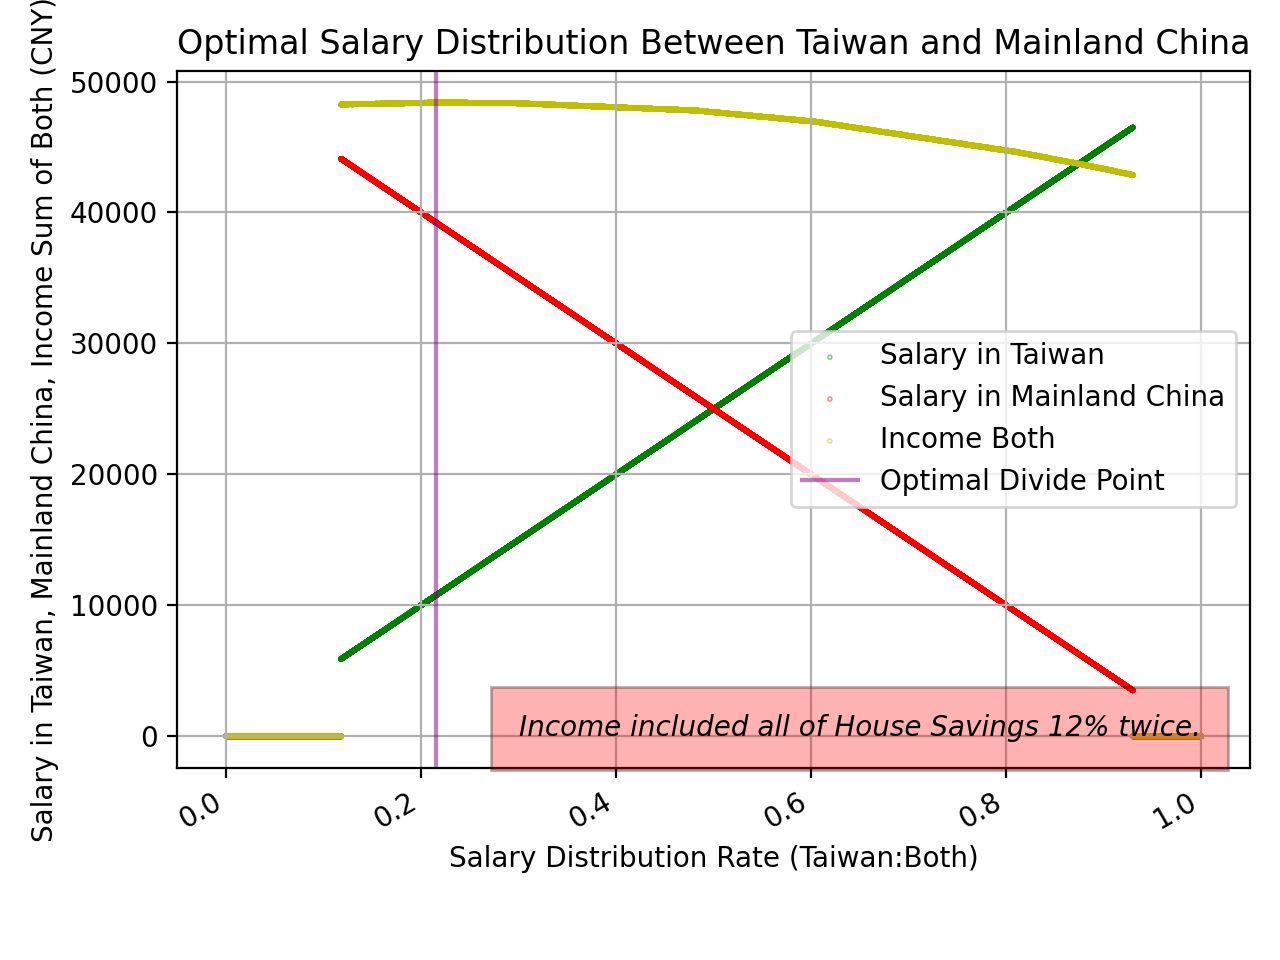
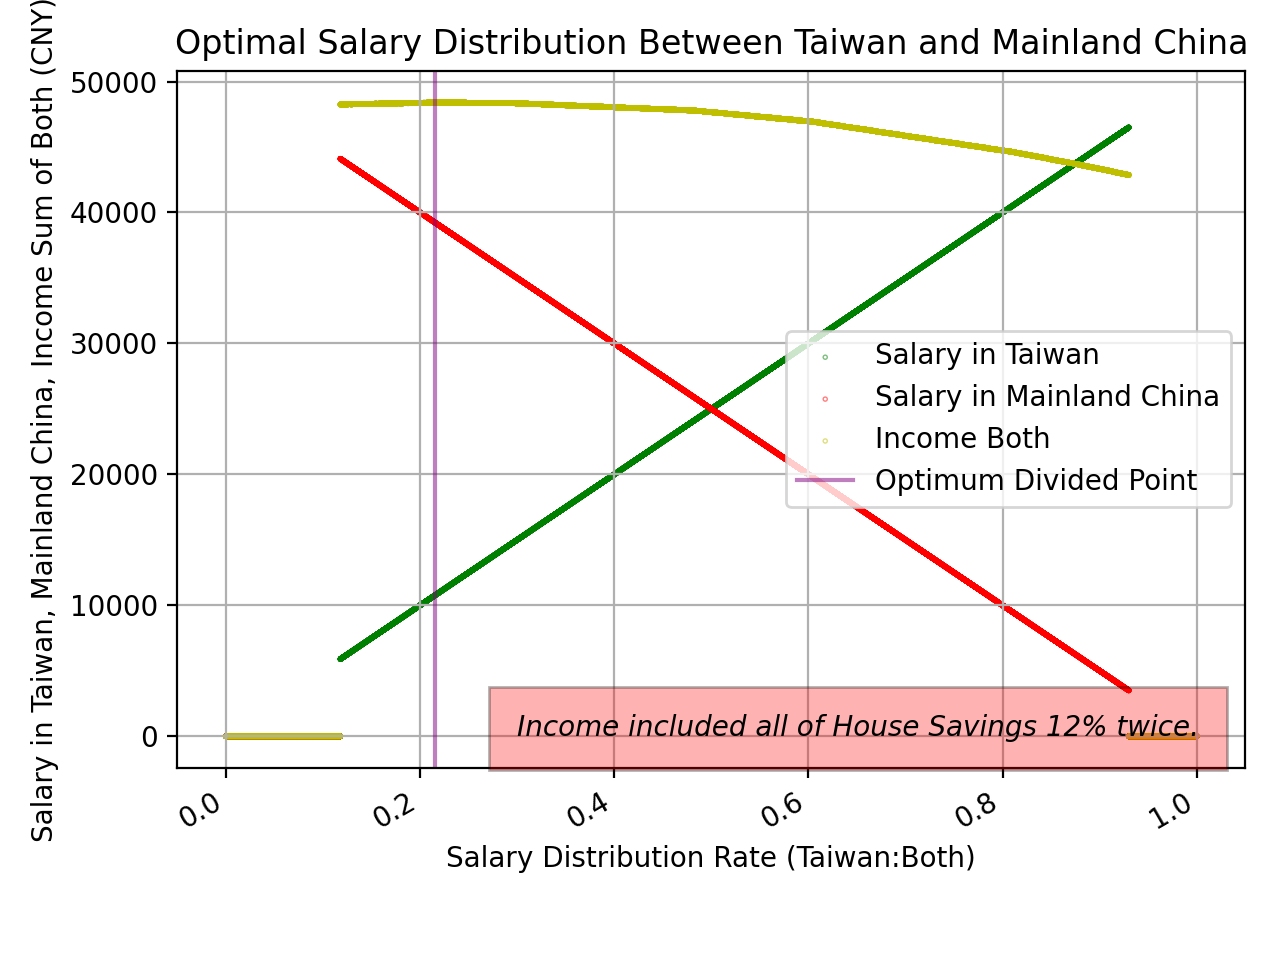
調整layout

diff --git a/calc_tax_optimal_divied_two_side.py b/calc_tax_optimal_divied_two_side.py
@@ -110,7 +110,7 @@ if __name__ == '__main__':
                         x=x_salary_rate, y=table[:,15],
                         marker=marker, color='y', alpha=0.5, s=scatter_marker_size)
     line_optimal_divide = plt.axvline(
-                        label='Optimal Divide Point',
+                        label='Optimum Divided Point',
                         x=x_salary_rate[optimal_divide_index], color='purple', alpha=0.5)
     plt.legend(
         handles=[
@@ -121,9 +121,9 @@ if __name__ == '__main__':
             ],
         loc='center right')
 
-    fig.tight_layout()
-    fig.autofmt_xdate()
     ax.text(0.3, 0.8, 'Income included all of House Savings 12% twice.', style='italic',
         bbox={'facecolor': 'red', 'alpha': 0.3, 'pad': 10})
-
+        
+    fig.tight_layout()
+    fig.autofmt_xdate()
     plt.show()
